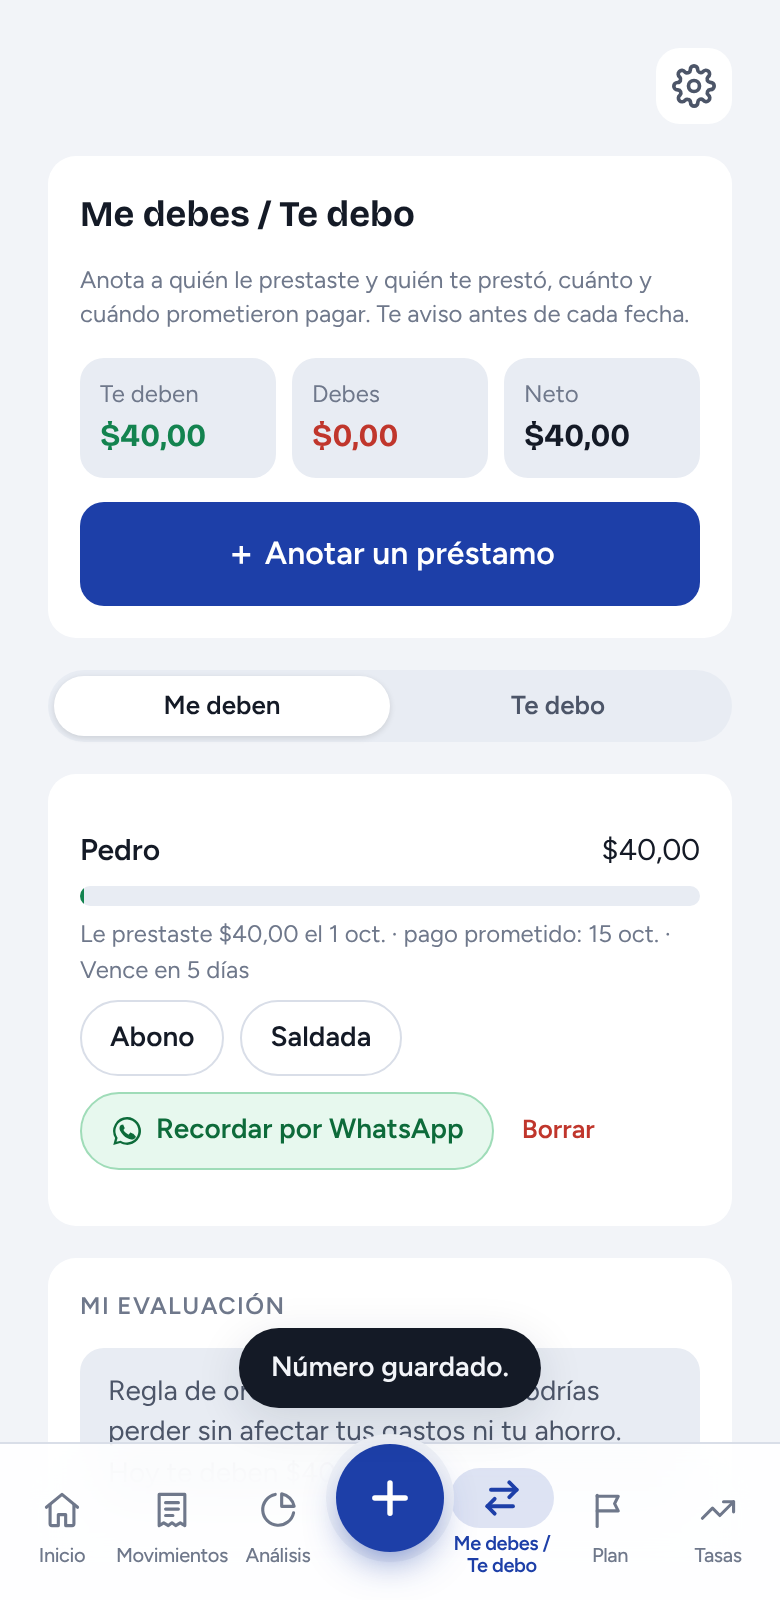
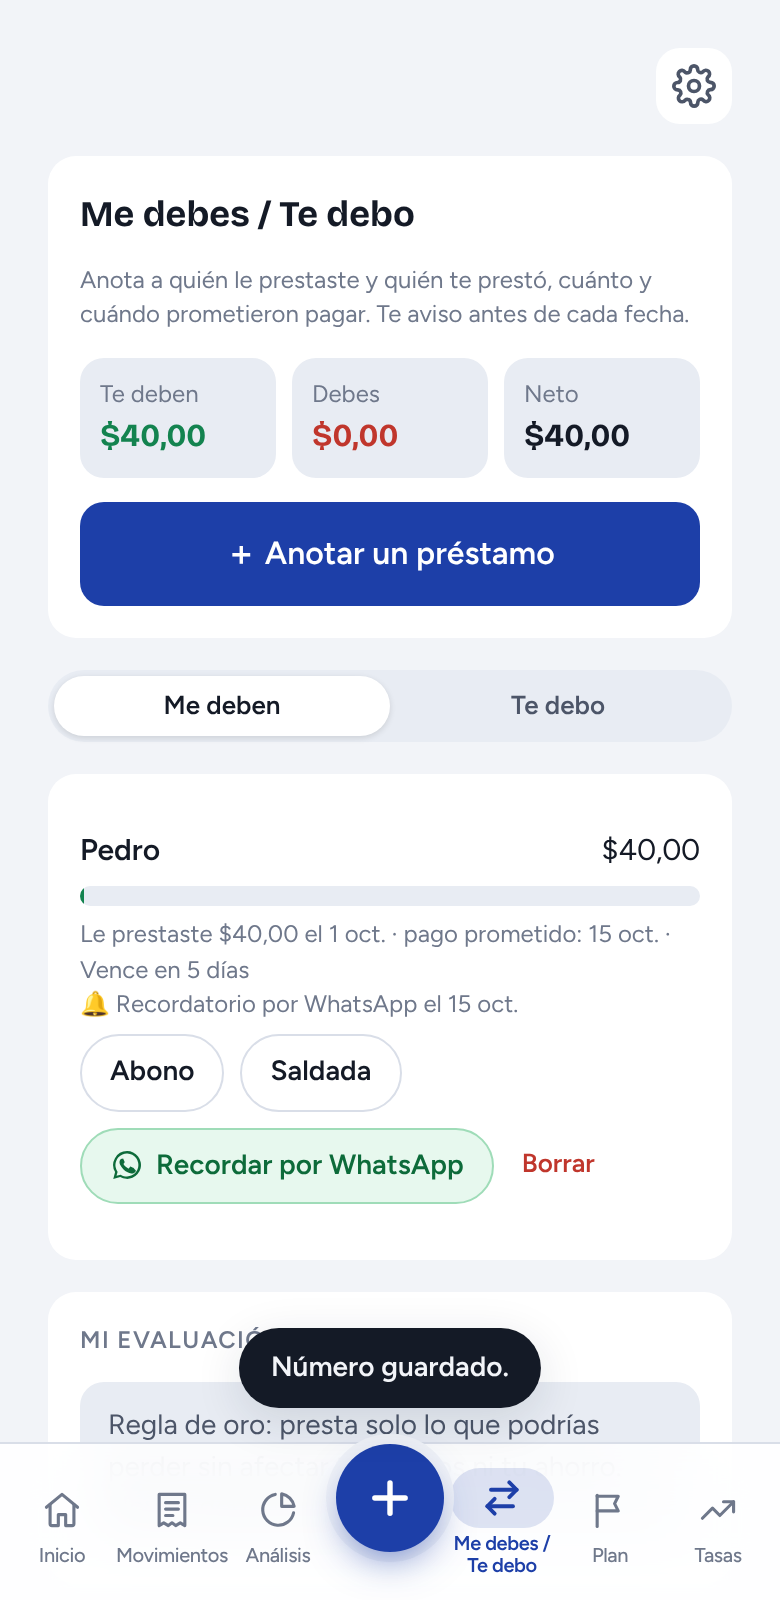
Actualiza la app (v46): recordatorio el día del pago
Claude-Session: https://claude.ai/code/session_016eEKr5AV81AkUUWj8yiqi4

diff --git a/app/index.html b/app/index.html
@@ -258,6 +258,13 @@ p { margin: 0; }
 .tools { display: flex; gap: 8px; flex-wrap: wrap; }
 .chip-btn.wa-btn { display: inline-flex; align-items: center; gap: 6px; text-decoration: none; background: #e7f8ee; border-color: #9fdcb8; color: #0d6b3a; }
 .wa-ico { width: 17px; height: 17px; flex: none; }
+.rem-tog { display: flex; align-items: center; gap: 10px; width: 100%; text-align: left; padding: 12px 14px; border-radius: 14px; border: 1.5px dashed #9fdcb8; background: transparent; color: #0d6b3a; font-size: 15px; font-weight: 600; }
+.rem-tog[aria-pressed="true"] { border-style: solid; background: #e7f8ee; }
+.rem-tog .wa-ico { width: 22px; height: 22px; }
+.rem-box { display: grid; gap: 10px; padding: 12px; border-radius: 14px; background: color-mix(in srgb, #2bb673 7%, var(--surface)); }
+.rem-card { border: 1.5px solid #9fdcb8; }
+@media (prefers-color-scheme: dark) { :root:not([data-theme="light"]) .rem-tog { color: #7fe0a9; border-color: #1f6a40; } :root:not([data-theme="light"]) .rem-tog[aria-pressed="true"] { background: #12301f; } :root:not([data-theme="light"]) .rem-card { border-color: #1f6a40; } }
+:root[data-theme="dark"] .rem-tog { color: #7fe0a9; border-color: #1f6a40; } :root[data-theme="dark"] .rem-tog[aria-pressed="true"] { background: #12301f; } :root[data-theme="dark"] .rem-card { border-color: #1f6a40; }
 @media (prefers-color-scheme: dark) { :root:not([data-theme="light"]) .chip-btn.wa-btn { background: #12301f; border-color: #1f6a40; color: #7fe0a9; } }
 :root[data-theme="dark"] .chip-btn.wa-btn { background: #12301f; border-color: #1f6a40; color: #7fe0a9; }
 /* Atajos de Movimientos: dos botones grandes, bien visibles. */
@@ -1189,7 +1196,7 @@ function remDue() {
     if (debtLeft(d) <= 0 || !d.due) return; const dd = debtDays(d); const left = money(debtLeft(d), d.cur); const me = d.dir === 'owe_me'; let t = null, mood = 'happy';
     if (dd === 2) t = me ? T(`Pasado mañana ${d.person} te tiene que pagar ${left}. Ve preparando la sonrisa de cobrador.`, `${d.person} owes you ${left} in 2 days.`) : T(`Pasado mañana le debes pagar ${left} a ${d.person}. Ve separándolo.`, `You owe ${d.person} ${left} in 2 days.`);
     else if (dd === 1) t = me ? T(`Mañana ${d.person} te paga ${left}. Si no, ya sabes dónde encontrarlo.`, `${d.person} pays you tomorrow.`) : T(`Mañana toca pagarle ${left} a ${d.person}. Palabra es palabra.`, `Pay ${d.person} tomorrow.`);
-    else if (dd === 0) { mood = 'surprised'; t = me ? T(`Hoy ${d.person} te tiene que pagar ${left}. Si no te escribe, usa "Recordar" en Análisis › Deudas.`, `${d.person} owes you today.`) : T(`¡Hoy le pagas ${left} a ${d.person}! Cuando lo hagas, márcalo en Análisis › Deudas.`, `Pay ${d.person} today.`); }
+    else if (dd === 0) { mood = 'surprised'; t = me ? T(`Hoy ${d.person} te tiene que pagar ${left}. ${d.remind ? 'Te dejé el recordatorio listo en Inicio para mandárselo por WhatsApp.' : 'Si no te escribe, mándale un recordatorio desde Me debes / Te debo.'}`, `${d.person} owes you today.`) : T(`¡Hoy le pagas ${left} a ${d.person}! Cuando lo hagas, márcalo en Análisis › Deudas.`, `Pay ${d.person} today.`); }
     else if (dd < 0 && dd >= -30 && dd % 3 === 0) { mood = me ? 'surprised' : 'angry'; t = me ? T(`${d.person} lleva ${-dd} días atrasado con tus ${left}. Cóbrale con cariño, pero cóbrale.`, `${d.person} is ${-dd} days late.`) : T(`${n}, llevas ${-dd} días atrasado con ${d.person} (${left}). Escríbele y propón una fecha.`, `You're ${-dd} days late with ${d.person}.`); }
     if (t) out.push({ key: 'debt-' + d.id, mood, t, why: me ? T('Lo que no se cobra a tiempo se vuelve incómodo de cobrar.', 'Uncollected debts get awkward.') : T('Pagar a tiempo cuida tu palabra y tus amistades.', 'Paying on time keeps your word.') });
   });
@@ -1370,6 +1377,9 @@ function viewInicio() {
   </section>` : ''}
   ${(() => { const d0 = new Date().getDate(); const lastD = new Date(new Date().getFullYear(), new Date().getMonth() + 1, 0).getDate(); const ready = S.month === S_month0 ? (d0 <= 5 ? shiftMonth(S_month0, -1) : d0 >= lastD - 2 ? S_month0 : null) : null;
     return ready && list.some(t => monthKey(t.date) === ready) ? `<section class="card" style="background:var(--good-bg)"><div class="label">${T('Balance del mes', 'Monthly balance')}</div><p>${T(`Ya está listo tu balance de ${monthName(ready)}: qué gastaste, qué entró, qué mejorar y dónde ahorrar.`, `Your ${monthName(ready)} balance is ready.`)}</p><button class="primary sm" data-balance="${ready}" style="justify-self:start">${T('Ver balance', 'See balance')}</button></section>` : ''; })()}
+  ${isDemo() ? '' : (S.cfg.debts || []).filter(debtRemDue).map(d => { const dd = debtDays(d); return `<section class="card rem-card"><div class="label">🔔 ${T('Recordatorio de pago', 'Payment reminder')}</div>
+    <p>${dd === 0 ? T(`Hoy ${esc(d.person)} te tiene que pagar <b>${money(debtLeft(d), d.cur)}</b>.`, `${esc(d.person)} owes you ${money(debtLeft(d), d.cur)} today.`) : T(`${esc(d.person)} lleva ${-dd} ${dd === -1 ? 'día' : 'días'} de atraso con tus <b>${money(debtLeft(d), d.cur)}</b>.`, `${esc(d.person)} is ${-dd} days late.`)} ${T('Te dejé el mensaje listo; solo toca Enviar en WhatsApp.', 'The message is ready; just tap Send.')}</p>
+    <div class="tools"><a class="chip-btn wa-btn" href="${esc(waLink(d))}" target="_blank" rel="noopener" data-dwa="${esc(d.id)}">${WA_ICO}${T('Enviar recordatorio', 'Send reminder')}</a><button class="chip-btn" data-dpaid="${esc(d.id)}">${T('Ya me pagó', 'Already paid')}</button></div></section>`; }).join('')}
   ${isDemo() ? '' : fixedCard(S.month)}
   ${isDemo() ? '' : (() => { const D = S.cfg.debts || []; const tot = dir => D.filter(d => d.dir === dir).reduce((a, d) => a + conv(debtLeft(d), d.cur, S.cfg.mainCur), 0); const late = D.filter(d => debtLeft(d) > 0 && debtDays(d) !== null && debtDays(d) <= 2).length;
     return `<section class="card"><div class="label">${T('Me debes / Te debo', 'Owed / I owe')}</div>
@@ -1483,7 +1493,7 @@ function viewTasas() {
 // ---------- Sugerencias (solo versión de prueba) ----------
 // Se envían a un Google Form de Ricardo; él las ve en la hoja de respuestas.
 // Para conectarlo: pega aquí el id del formulario y los entry.N de cada pregunta (salen del enlace prellenado).
-const APP_VER = 'v45';
+const APP_VER = 'v46';
 const SUGG = { form: '', name: '', email: '', text: '', meta: '' };
 const TEST_BUILD = /github\.io$|^localhost$|^127\.0\.0\.1$/.test(location.hostname);
 const suggReady = () => !!(SUGG.form && SUGG.name && SUGG.email && SUGG.text);
@@ -2335,7 +2345,7 @@ function viewDeudas() {
   <section class="card">${list.length ? list.map(d => { const left = debtLeft(d); const p = d.amount ? 1 - left / d.amount : 0;
     return `<div class="goal"><div class="top"><b>${esc(d.person)}</b><span class="num">${money(left, d.cur)}</span></div>
       <div class="track"><i style="width:${(p * 100).toFixed(1)}%"></i></div>
-      <p class="note">${FINSUB.dir === 'owe_me' ? T('Le prestaste', 'Lent') : T('Te prestó', 'Lent you')} ${money(d.amount, d.cur)} ${T('el', 'on')} ${esc(dfmt(d.date))}${d.due ? ` · ${T('pago prometido:', 'due')} ${esc(dfmt(d.due))}` : ''} · ${debtStatus(d)}${d.note ? `<br>${esc(d.note)}` : ''}</p>
+      <p class="note">${FINSUB.dir === 'owe_me' ? T('Le prestaste', 'Lent') : T('Te prestó', 'Lent you')} ${money(d.amount, d.cur)} ${T('el', 'on')} ${esc(dfmt(d.date))}${d.due ? ` · ${T('pago prometido:', 'due')} ${esc(dfmt(d.due))}` : ''} · ${debtStatus(d)}${d.remind && left > 0 && d.due ? `<br>🔔 ${d.remSent ? T(`Recordatorio enviado el ${dfmt(d.remSent)}`, `Reminder sent ${dfmt(d.remSent)}`) : T(`Recordatorio por WhatsApp el ${dfmt(d.due)}`, `WhatsApp reminder on ${dfmt(d.due)}`)}` : ''}${d.note ? `<br>${esc(d.note)}` : ''}</p>
       ${left > 0 ? `<div class="tools"><button class="chip-btn" data-dpay="${esc(d.id)}">${T('Abono', 'Partial')}</button><button class="chip-btn" data-dfull="${esc(d.id)}">${T('Saldada', 'Settled')}</button>${d.dir === 'owe_me' ? `<a class="chip-btn wa-btn" href="${esc(waLink(d))}" target="_blank" rel="noopener" data-dwa="${esc(d.id)}">${WA_ICO}${T('Recordar por WhatsApp', 'Remind on WhatsApp')}</a>${d.phone ? '' : `<button class="mini-x" data-dphone="${esc(d.id)}">${T('+ Su número', '+ Number')}</button>`}` : ''}<button class="mini-x" data-ddel="${esc(d.id)}">${T('Borrar', 'Delete')}</button></div>` : `<div class="tools"><button class="mini-x" data-ddel="${esc(d.id)}">${T('Borrar', 'Delete')}</button></div>`}</div>`; }).join('')
     : `<p class="note">${FINSUB.dir === 'owe_me' ? T('Nadie te debe nada. ¡Qué paz!', 'Nobody owes you.') : T('No le debes a nadie. ¡Así da gusto!', 'You owe nobody.')}</p>`}</section>
   ${tips.length ? `<section class="card"><div class="label">${T('Mi evaluación', 'My take')}</div><div class="tips">${tips.map(t => `<div class="tip"><p>${t}</p></div>`).join('')}</div></section>` : ''}`;
@@ -2348,6 +2358,10 @@ function viewFin() {
 // WhatsApp: abre el chat con el mensaje ya escrito; la persona solo toca Enviar.
 // Números venezolanos 0414… se convierten a 58414…; sin número, WhatsApp deja elegir el contacto.
 const waNum = v => { let n = String(v || '').replace(/\D/g, ''); if (!n) return ''; if (n.startsWith('00')) n = n.slice(2); if (n.startsWith('0')) n = '58' + n.slice(1); else if (n.length === 10 && /^4/.test(n)) n = '58' + n; return n.length >= 10 ? n : ''; };
+const CONTACTS_OK = !!(navigator.contacts && navigator.contacts.select);
+// Recordatorio programado: aparece en Inicio desde el día prometido mientras la deuda siga sin pagar.
+// Tras enviarlo, si sigue sin pagar vuelve a aparecer cada 3 días.
+const debtRemDue = d => d.dir === 'owe_me' && d.remind && d.due && debtLeft(d) > 0 && debtDays(d) <= 0 && (!d.remSent || (Date.now() - new Date(d.remSent + 'T00:00')) / 864e5 >= 3);
 const waLink = d => `https://wa.me/${waNum(d.phone)}?text=${encodeURIComponent(debtMsg(d))}`;
 const WA_ICO = '<svg class="wa-ico" viewBox="0 0 24 24" aria-hidden="true"><path fill="currentColor" d="M12 2.2A9.8 9.8 0 0 0 3.6 17l-1.3 4.8 4.9-1.3A9.8 9.8 0 1 0 12 2.2Zm0 17.9c-1.5 0-2.9-.4-4.2-1.1l-.3-.2-2.9.8.8-2.8-.2-.3A8.1 8.1 0 1 1 12 20.1Zm4.5-6.1c-.2-.1-1.5-.7-1.7-.8-.2-.1-.4-.1-.6.1l-.8 1c-.1.2-.3.2-.5.1-.7-.3-1.4-.7-2-1.3-.5-.5-1-1.1-1.3-1.7-.1-.2 0-.4.1-.5l.4-.4.2-.4v-.4l-.8-1.8c-.2-.5-.4-.4-.6-.4h-.5a1 1 0 0 0-.7.3c-.3.3-1 1-1 2.3s1 2.7 1.2 2.9c.1.2 2 3.1 4.9 4.3 1.8.8 2.5.8 3.4.7.5-.1 1.5-.6 1.8-1.2.2-.6.2-1.1.1-1.2l-.4-.3Z"/></svg>';
 function debtMsg(d) {
@@ -2359,15 +2373,20 @@ function debtMsg(d) {
   ]);
 }
 function openDebtSheet(mode, d) {
-  const root = $('#sheetRoot'); const F = { dir: FINSUB.dir, person: '', phone: '', amount: '', cur: S.cfg.mainCur, date: todayISO(), due: '', note: '', move: true };
+  const root = $('#sheetRoot'); const F = { dir: FINSUB.dir, person: '', phone: '', remind: false, amount: '', cur: S.cfg.mainCur, date: todayISO(), due: '', note: '', move: true };
   const draw = () => {
     const body = mode === 'new' ? `
       <div class="seg plantabs"><button data-ndir="owe_me" aria-pressed="${F.dir === 'owe_me'}">${T('Yo presté', 'I lent')}</button><button data-ndir="i_owe" aria-pressed="${F.dir === 'i_owe'}">${T('Me prestaron', 'I borrowed')}</button></div>
       <div class="field"><label for="dPerson">${F.dir === 'owe_me' ? T('¿A quién le prestaste?', 'Who did you lend to?') : T('¿Quién te prestó?', 'Who lent you?')}</label><input id="dPerson" maxlength="30" value="${esc(F.person)}"></div>
-      ${F.dir === 'owe_me' ? `<div class="field"><label for="dPhone">${T('Su WhatsApp', 'Their WhatsApp')}</label><input id="dPhone" type="tel" inputmode="tel" maxlength="20" placeholder="${T('Opcional · 0414 1234567', 'Optional')}" value="${esc(F.phone)}"><span class="note">${T('Para mandarle un recordatorio amistoso el día del pago.', 'To send a friendly reminder on payday.')}</span></div>` : ''}
+
       <div class="field"><label for="dAmt">${T('Monto', 'Amount')}</label><div class="amount"><input id="dAmt" inputmode="decimal" placeholder="0" value="${esc(F.amount)}"><span class="curtog"><button data-dcur="USD" aria-pressed="${F.cur === 'USD'}">$</button><button data-dcur="VES" aria-pressed="${F.cur === 'VES'}">Bs</button></span></div></div>
       <div class="two"><div class="field"><label for="dDate">${T('Fecha del préstamo', 'Loan date')}</label><input id="dDate" type="date" value="${esc(F.date)}"></div>
         <div class="field"><label for="dDue">${F.dir === 'owe_me' ? T('Dijo que paga el', 'Promised to pay') : T('Prometí pagar el', 'I promised to pay')}</label><input id="dDue" type="date" value="${esc(F.due)}"></div></div>
+      ${F.dir === 'owe_me' ? `<button type="button" class="rem-tog" id="dRem" aria-pressed="${F.remind}">${WA_ICO}<span>${F.remind ? '✓ ' : ''}${T('Enviar recordatorio a', 'Send a reminder to')} <b id="dRemName">${esc(F.person.trim() || T('esta persona', 'this person'))}</b></span></button>
+      ${F.remind ? `<div class="rem-box">
+        ${CONTACTS_OK ? `<button type="button" class="chip-btn" id="dPick">📇 ${T('Buscar en mis contactos', 'Pick from contacts')}</button>` : ''}
+        <div class="field"><label for="dPhone">${T('Su WhatsApp', 'Their WhatsApp')}</label><input id="dPhone" type="tel" inputmode="tel" maxlength="20" placeholder="0414 1234567" value="${esc(F.phone)}"></div>
+        <p class="note">${T('El día que prometió pagar te aviso en Inicio y con un toque se abre WhatsApp con un mensaje amistoso listo. Si marcas la deuda como pagada antes, no se envía nada.', 'On the due date I will remind you and open WhatsApp with a friendly message. If it gets paid first, nothing is sent.')}</p></div>` : ''}` : ''}
       <div class="field"><label for="dNote">${T('Nota', 'Note')}</label><input id="dNote" maxlength="60" placeholder="${T('Opcional', 'Optional')}" value="${esc(F.note)}"></div>
       <label class="cls"><span>${F.dir === 'owe_me' ? T('Descontarlo de mi dinero disponible', 'Take it from my available money') : T('Sumarlo a mi dinero disponible', 'Add it to my available money')}</span><input type="checkbox" id="dMove" ${F.move ? 'checked' : ''}></label>`
       : `<p>${d.person}: ${T('quedan', 'left')} <b>${money(debtLeft(d), d.cur)}</b></p>
@@ -2377,9 +2396,11 @@ function openDebtSheet(mode, d) {
       ${body}<p class="err" id="dErr" hidden></p><button class="primary" id="dSave">${T('Guardar', 'Save')}</button></div></div>`;
   };
   const read = () => { ['person:dPerson', 'phone:dPhone', 'amount:dAmt', 'date:dDate', 'due:dDue', 'note:dNote'].forEach(x => { const [k, id] = x.split(':'); const el = $('#' + id); if (el) F[k] = el.value; }); const mv = $('#dMove'); if (mv) F.move = mv.checked; };
-  draw(); root.oninput = null;
+  draw(); root.oninput = e => { if (e.target.id === 'dPerson') { const n = $('#dRemName'); if (n) n.textContent = e.target.value.trim() || T('esta persona', 'this person'); } };
   root.onclick = async e => {
     if (e.target.id === 'scrim' || e.target.closest('#closeSheet')) { sheetClose(root); return; }
+    if (e.target.closest('#dRem')) { read(); F.remind = !F.remind; draw(); if (F.remind) { const ph = $('#dPhone'); if (ph && !CONTACTS_OK) ph.focus(); } return; }
+    if (e.target.closest('#dPick')) { read(); try { const [c] = await navigator.contacts.select(['name', 'tel'], { multiple: false }); if (c) { const tel = (c.tel || []).find(Boolean); if (tel) F.phone = tel; if (!F.person.trim() && c.name && c.name[0]) F.person = c.name[0]; draw(); if (!tel) toast(T('Ese contacto no tiene número.', 'That contact has no number.')); } } catch (x) { toast(T('No pude abrir tus contactos. Escribe el número.', 'Could not open contacts.')); } return; }
     const nd = e.target.closest('[data-ndir]'); if (nd) { read(); F.dir = nd.dataset.ndir; draw(); return; }
     const dc = e.target.closest('[data-dcur]'); if (dc) { read(); F.cur = dc.dataset.dcur; draw(); return; }
     if (!e.target.closest('#dSave')) return;
@@ -2387,7 +2408,10 @@ function openDebtSheet(mode, d) {
     if (mode === 'new') {
       read(); const a = parseAmount(F.amount);
       if (!F.person.trim() || !a || a <= 0) { err.textContent = T('Escribe el nombre y el monto.', 'Enter name and amount.'); err.hidden = false; return; }
-      const debt = { id: newId('d'), dir: F.dir, person: F.person.trim(), phone: F.dir === 'owe_me' ? waNum(F.phone) : '', amount: Math.abs(a), cur: F.cur, date: F.date || todayISO(), due: F.due || '', note: F.note.trim(), move: F.move, pays: [] };
+      const rem = F.dir === 'owe_me' && F.remind;
+      if (rem && !F.due) { err.textContent = T('Para el recordatorio, pon la fecha en que prometió pagar.', 'Set the promised date for the reminder.'); err.hidden = false; return; }
+      if (rem && !waNum(F.phone)) { err.textContent = T('Para el recordatorio, busca o escribe su número de WhatsApp.', 'Add their WhatsApp number.'); err.hidden = false; return; }
+      const debt = { id: newId('d'), dir: F.dir, person: F.person.trim(), phone: F.dir === 'owe_me' && F.remind ? waNum(F.phone) : '', remind: F.dir === 'owe_me' && F.remind, amount: Math.abs(a), cur: F.cur, date: F.date || todayISO(), due: F.due || '', note: F.note.trim(), move: F.move, pays: [] };
       S.cfg.debts = (S.cfg.debts || []).concat([debt]); FINSUB.dir = F.dir; sheetClose(root); store.saveCfg();
       if (F.move) { try { await store.put({ id: newId(), type: 'deuda', debtId: debt.id, dir: debt.dir, flow: debt.dir === 'owe_me' ? 'out' : 'in', amount: debt.amount, cur: debt.cur, rates: nowRates(), note: (debt.dir === 'owe_me' ? T('Préstamo a ', 'Loan to ') : T('Préstamo de ', 'Loan from ')) + debt.person, date: debt.date, src: 'deuda', created: Date.now() }); } catch (e2) { saveError(e2); } }
       render(); petDebt(debt, 'new');
@@ -2411,6 +2435,13 @@ function petDebt(d, ev) {
     : vary('d-part', 'happy', [T(`Abono anotado. Quedan ${money(debtLeft(d), d.cur)}.`, `Payment logged. ${money(debtLeft(d), d.cur)} left.`), T(`Poquito a poco se llena el tobo. Faltan ${money(debtLeft(d), d.cur)}.`, `Bit by bit. ${money(debtLeft(d), d.cur)} left.`)]);
   petSay(e); if (!document.getElementById('petPanel')) petPop(e.t, e.mood);
 }
+// Botones del recordatorio (en Inicio y en Me debes): abrir WhatsApp o marcar que ya pagó.
+function debtQuick(e) {
+  const get = id => (S.cfg.debts || []).find(d => d.id === id);
+  const dw = e.target.closest('[data-dwa]'); if (dw) { const d = get(dw.dataset.dwa); if (d && debtRemDue(d)) { d.remSent = todayISO(); S.cfg.debts = S.cfg.debts.slice(); store.saveCfg(); setTimeout(render, 300); } if (d) setTimeout(() => petPop(T(`Te abrí WhatsApp con el mensaje para ${d.person}. Solo toca Enviar.`, `Opened WhatsApp. Just tap Send.`), 'happy'), 400); return true; }
+  const pd = e.target.closest('[data-dpaid]'); if (pd) { const d = get(pd.dataset.dpaid); if (d) debtPay(d, debtLeft(d)); return true; }
+  return false;
+}
 function finClick(e) {
   const fs = e.target.closest('[data-fsub]'); if (fs) { FINSUB.t = fs.dataset.fsub; render(); return true; }
   const dd = e.target.closest('[data-ddir]'); if (dd) { FINSUB.dir = dd.dataset.ddir; render(); return true; }
@@ -2418,8 +2449,7 @@ function finClick(e) {
   const get = id => (S.cfg.debts || []).find(d => d.id === id);
   const dp = e.target.closest('[data-dpay]'); if (dp) { openDebtSheet('pay', get(dp.dataset.dpay)); return true; }
   const df = e.target.closest('[data-dfull]'); if (df) { const d = get(df.dataset.dfull); if (d) debtPay(d, debtLeft(d)); return true; }
-  const dw = e.target.closest('[data-dwa]'); if (dw) { const d = get(dw.dataset.dwa); if (d) setTimeout(() => petPop(T(`Te abrí WhatsApp con el mensaje para ${d.person}. Solo toca Enviar.`, `Opened WhatsApp. Just tap Send.`), 'happy'), 400); return true; }
-  const dph = e.target.closest('[data-dphone]'); if (dph) { const d = get(dph.dataset.dphone); if (!d) return true; const v = prompt(T(`WhatsApp de ${d.person} (ej. 0414 1234567)`, `${d.person}'s WhatsApp`), ''); const n = waNum(v); if (v && !n) { toast(T('Ese número no se ve completo.', 'That number looks incomplete.')); return true; } if (n) { d.phone = n; S.cfg.debts = S.cfg.debts.slice(); render(); store.saveCfg(); toast(T('Número guardado.', 'Number saved.')); } return true; }
+  const dph = e.target.closest('[data-dphone]'); if (dph) { const d = get(dph.dataset.dphone); if (!d) return true; const v = prompt(T(`WhatsApp de ${d.person} (ej. 0414 1234567)`, `${d.person}'s WhatsApp`), ''); const n = waNum(v); if (v && !n) { toast(T('Ese número no se ve completo.', 'That number looks incomplete.')); return true; } if (n) { d.phone = n; if (d.due) d.remind = true; S.cfg.debts = S.cfg.debts.slice(); render(); store.saveCfg(); toast(T('Número guardado.', 'Number saved.')); } return true; }
   const dm = e.target.closest('[data-dmsg]'); if (dm) { const d = get(dm.dataset.dmsg); if (!d) return true; const txt = debtMsg(d);
     const done = () => toast(T('Mensaje copiado. Pégalo en WhatsApp.', 'Message copied.'));
     try { navigator.clipboard.writeText(txt).then(done, () => petPop(txt, 'happy')); } catch (x) { petPop(txt, 'happy'); } return true; }
@@ -2507,6 +2537,7 @@ document.addEventListener('click', async e => {
   const smb = e.target.closest('[data-sms]'); if (smb) { S.cfg.smsBridge = smb.dataset.sms === '1'; store.saveCfg(); render(); return; }
   if (e.target.closest('#smsGo')) { smsCheck(); return; }
   const gdb = e.target.closest('[data-godebt]'); if (gdb) { S.tab = 'deudas'; render(); window.scrollTo(0, 0); if (gdb.dataset.godebt === 'new') openDebtSheet('new'); return; }
+  if (debtQuick(e)) return;
   if ((S.tab === 'fin' || S.tab === 'deudas') && finClick(e)) return;
   if (S.tab === 'plan' && (fixedClick(e) || planClick(e))) return;
   const pay = e.target.closest('[data-pay]'); if (pay) { pay.disabled = true; return payFixed(pay.dataset.pay); }

diff --git a/app/sw.js b/app/sw.js
@@ -1,6 +1,6 @@
 // Cuentas Claras: guarda la app en el teléfono para que abra rápido y sin conexión.
 // Sube CACHE cada vez que publiques una versión nueva.
-const CACHE = 'cc-v45';
+const CACHE = 'cc-v46';
 const FONTS = 'cc-fonts'; // las letras de Google se guardan aparte y sobreviven a las versiones nuevas
 const PREF = 'cc-pref';   // aquí se recuerda la mascota elegida para el ícono
 const PETS = ['cerdito', 'gato', 'perro', 'guacamaya', 'caiman', 'tigre', 'aguila', 'mosca', 'zancudo'];
